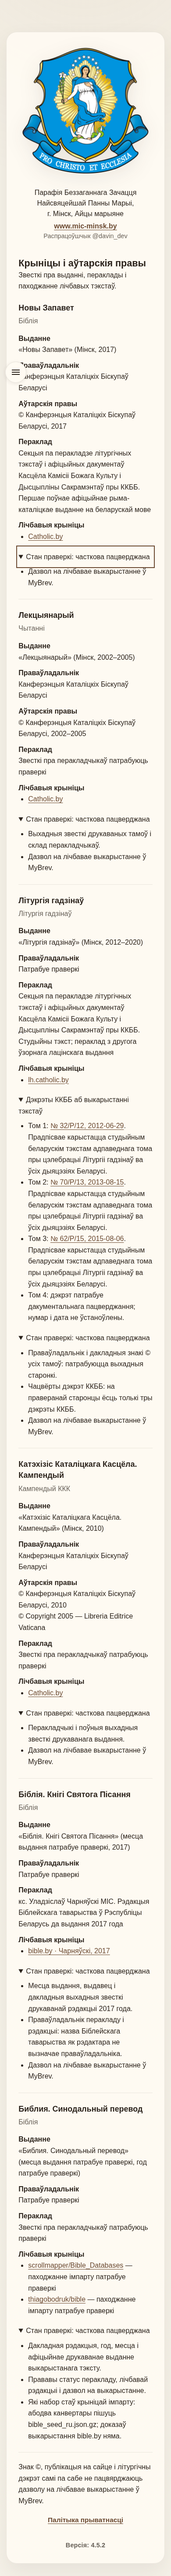
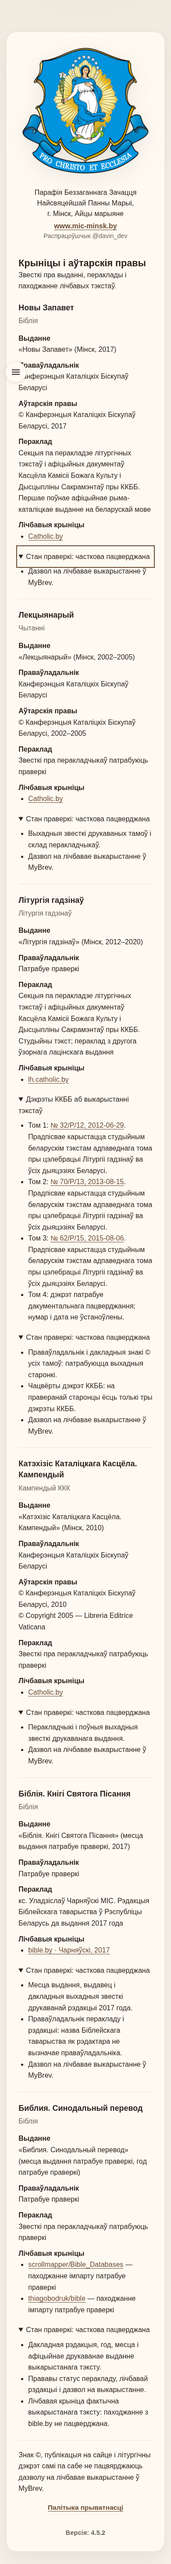
docs: record source audit and production UI validation

Changed region(s): [[0.0923, 0.0, 0.8923, 0.9959], [0.8, 0.8091, 0.8308, 0.8403], [0.5231, 0.249, 0.5538, 0.2801]]

diff --git a/docs/sources/registry-audit.md b/docs/sources/registry-audit.md
@@ -125,3 +125,41 @@
 отсутствие горизонтального скролла и три обозначения перевода Библии.
 Скриншоты: [мобильный](evidence/about-390.png), [настольный](evidence/about-1440.png).
 Это проверка UI и локальных метаданных; полнота текста из live Firestore не проверялась.
+
+Итоговая база PR: `0a21e29` (актуальный `origin/main` на момент проверки).
+Ветка обновлена от неё без изменения защищённых разделов в diff PR.
+
+- `SOURCE_AUDIT_DIFF=/tmp/mybrev-source-diff.txt npm test`: **1083 проверки,
+  1073 pass, 0 fail, 10 skipped**. Пропуски относятся к отсутствующим приватным
+  исходникам/Flutter bundle и необязательным тестам с эмуляторами; новые проверки
+  реестра и границ PR выполнены. Начальный запуск в ограниченной песочнице имел
+  четыре ошибки запуска локального HTTP/Chromium/дочерних процессов; повторный
+  запуск с доступом к этим локальным возможностям прошёл полностью.
+- `npm run lint -- --no-fix`: **PASS**, без исправления посторонних файлов.
+- `npm run build`: **PASS**, PWA production bundle сформирован. Vite сообщает
+  предупреждения о размере отдельных chunks; ошибок сборки нет.
+- `git diff --check`: **PASS**.
+- Chromium (Vite и итоговая production-сборка): 320/390/1440 px, все шесть записей, клавиатура, ссылки, отсутствие
+  горизонтального переполнения и выбор трёх переводов — **PASS**. Скриншоты
+  просмотрены на мобильной и настольной ширине; текст и неизвестные сведения
+  читаемы, примечания и декреты раскрываются без выхода за карточку.
+
+Локального `backups/firestore-snapshot/manifest.json` в окружении нет.
+Аудит подписей относится к коду UI и доступным локальным импортным материалам;
+наличие возможных подписей внутри удалённых полей текстов отдельно не утверждается.
+Live Firestore, миграции, публикация контента, Firebase deploy и merge не выполнялись.
+
+Изменённые файлы:
+
+- `src/data/sources.json`
+- `src/constants/sources.js`
+- `src/constants/bible.js`
+- `src/constants/compendium.js`
+- `src/components/SourceRights.vue`
+- `src/views/About.vue`
+- `tests/sources.test.mjs`
+- `tests/bible.test.mjs`
+- `scripts/smoke-source-rights.mjs`
+- `docs/sources/registry-audit.md`
+- `docs/sources/evidence/about-390.png`
+- `docs/sources/evidence/about-1440.png`
